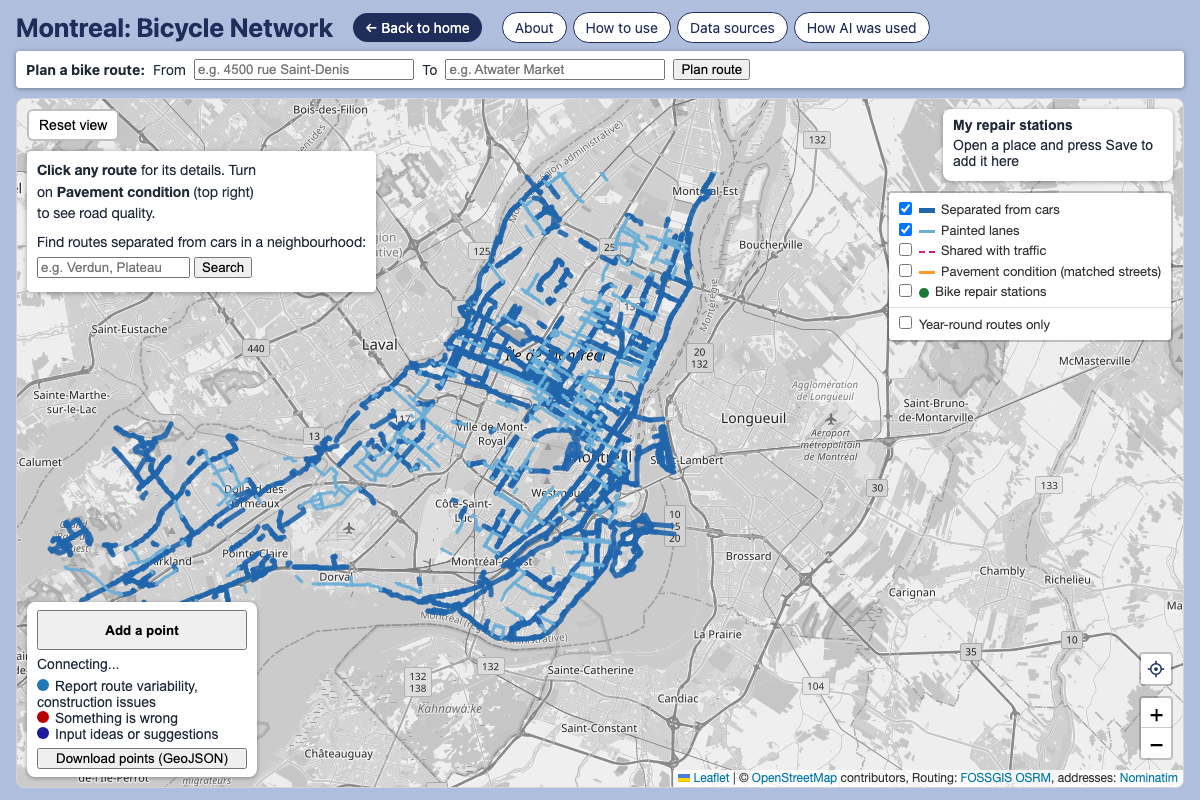
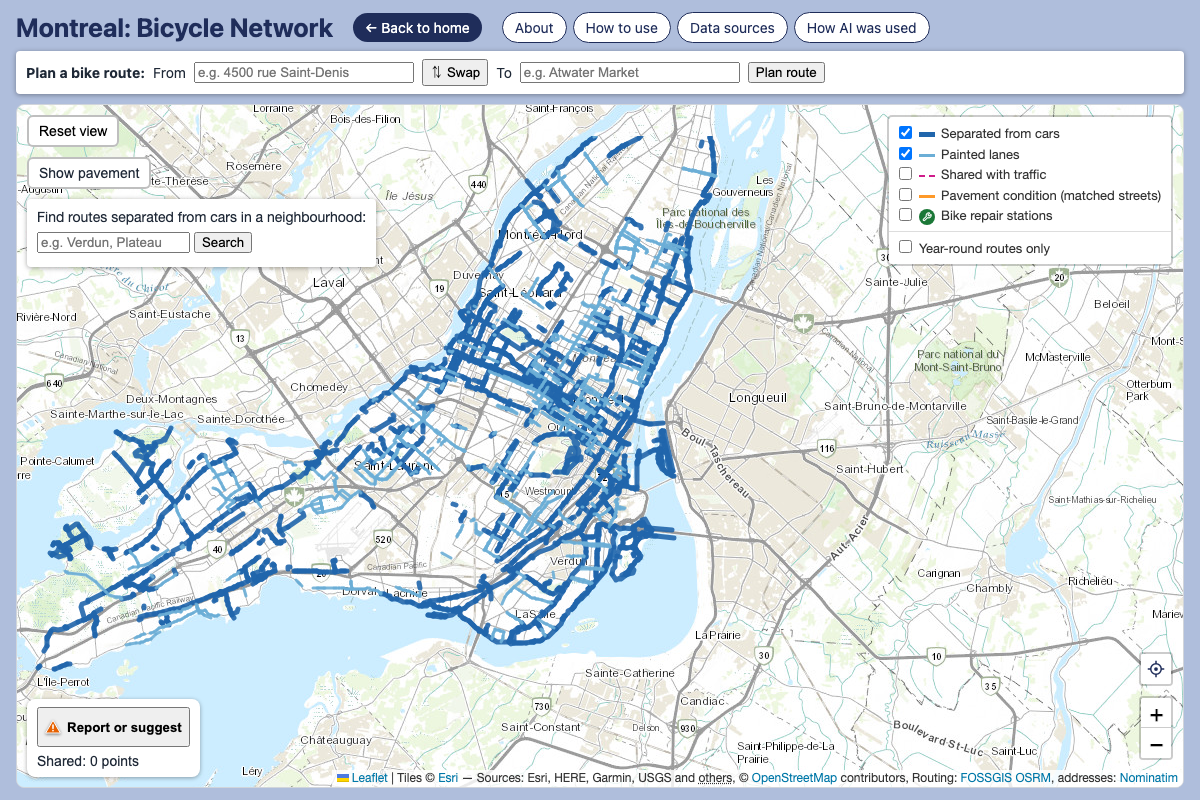
3.4 repair stations when saved, 3.5 update basemap

diff --git a/site/remember.js b/site/remember.js
@@ -100,15 +100,20 @@ function rememberMarks(map, layer, options) {
     return String(p[nameField] !== undefined ? p[nameField] : id);
   }
 
-  function drawPanel() {
+  function drawPanel(message) {
     panel.textContent = "";
+    // Favourites: hide the whole box until something is saved, so it does not cover the map for nothing
+    // (each place's popup has its own "Save" button). A message, e.g. "This browser would not save it",
+    // still shows the box. Saved places no longer in the data do not count.
+    const saved = marked.filter((id) => byId[id]);
+    panel.hidden = !progress && saved.length === 0 && !message;
     const h = document.createElement("strong");
     h.textContent = o.title || (progress ? "Progress" : "My places");
     const status = document.createElement("div");
     status.setAttribute("role", "status");
     status.style.margin = "4px 0";
-    status.textContent = progress ? (marked.length + " of " + total + " visited")
-                                  : (marked.length ? marked.length + " saved" : "Open a place and press Save to add it here");
+    status.textContent = message || (progress ? (marked.length + " of " + total + " visited")
+                                              : saved.length + " saved");
     const ul = document.createElement("ul");
     ul.style.cssText = "margin:0;padding-left:18px";
     for (const id of marked) {
@@ -131,11 +136,14 @@ function rememberMarks(map, layer, options) {
   function toggle(id) {
     const before = marked;
     marked = marked.includes(id) ? marked.filter((x) => x !== id) : marked.concat([id]);
-    if (!geog464Save(key, marked)) { marked = before; alertBox("This browser would not save it (private window?)"); }
+    if (!geog464Save(key, marked)) {
+      marked = before;
+      drawPanel("This browser would not save it (private window?)");   // shows the box even if nothing is saved
+      return;
+    }
     drawPanel();
   }
 
-  function alertBox(text) { panel.querySelector('[role="status"]').textContent = text; }
 
   // Add a button to each popup when it opens, so your own popup content stays as it is.
   layer.on("popupopen", (e) => {

diff --git a/site/app.js b/site/app.js
@@ -1,10 +1,20 @@
 const map = L.map('map', { preferCanvas: true }).setView([45.51, -73.57], 11);
 map.zoomControl.setPosition('bottomright');
 
-L.tileLayer('https://tile.openstreetmap.org/{z}/{x}/{y}.png', {
+// Basemap: Esri World Topographic. Light, natural colours (green parks, blue water, white and grey streets)
+// that do not clash with the lane, pavement and report colours, and it shows terrain.
+// Free with no account for non-commercial use; Esri asks for the credit below. Its full source list is long,
+// so (like Esri's own Leaflet plugin) the map shows a short credit and the full list appears on hover over "others".
+// The full credit is also in the Data sources tab.
+const ESRI_SOURCES = 'Sources: Esri, HERE, Garmin, Intermap, increment P Corp., GEBCO, USGS, FAO, NPS, NRCAN, GeoBase, IGN, ' +
+  'Kadaster NL, Ordnance Survey, Esri Japan, METI, Esri China (Hong Kong), (c) OpenStreetMap contributors, and the GIS User Community';
+L.tileLayer('https://server.arcgisonline.com/ArcGIS/rest/services/World_Topo_Map/MapServer/tile/{z}/{y}/{x}', {
   maxZoom: 19,
-  attribution: '&copy; <a href="https://www.openstreetmap.org/copyright">OpenStreetMap</a> contributors'
+  attribution: 'Tiles &copy; <a href="https://www.esri.com">Esri</a> &mdash; Sources: Esri, HERE, Garmin, USGS and ' +
+    '<abbr title="' + ESRI_SOURCES + '">others</abbr>'
 }).addTo(map);
+// The routes, addresses and repair stations come from OpenStreetMap data
+map.attributionControl.addAttribution('&copy; <a href="https://www.openstreetmap.org/copyright">OpenStreetMap</a> contributors');
 map.attributionControl.addAttribution(
   'Routing: <a href="https://routing.openstreetmap.de/about.html">FOSSGIS OSRM</a>, ' +
   'addresses: <a href="https://nominatim.org">Nominatim</a>'

diff --git a/site/map.html b/site/map.html
@@ -73,6 +73,12 @@
               if you choose "My location") are sent to these services to plan the route. "Locate me" uses your browser's location
               and does not send it anywhere.
             </li>
+            <li>
+              Basemap: <a href="https://www.arcgis.com/home/item.html?id=30e5fe3149c34df1ba922e6f5bbf808f">World Topographic Map</a>,
+              tiles &copy; Esri. Sources: Esri, HERE, Garmin, Intermap, increment P Corp., GEBCO, USGS, FAO, NPS, NRCAN, GeoBase,
+              IGN, Kadaster NL, Ordnance Survey, Esri Japan, METI, Esri China (Hong Kong), &copy; OpenStreetMap contributors,
+              and the GIS User Community.
+            </li>
           </ul>
         </section>
 

diff --git a/site/style.css b/site/style.css
@@ -149,9 +149,6 @@ h2 {
 a {
   color: var(--accent);
 }
-.leaflet-tile-pane {
-  filter: grayscale(100%);
-}
 #map {
   flex: 1;
   min-height: 420px;

diff --git a/README.md b/README.md
@@ -286,14 +286,14 @@ Review item 9 (aesthetic and minimalist design): five boxes covered the map (Res
 - **3.2 "Show pavement" button:** a small button under Reset view turns the pavement layer on and off ("Show pavement" / "Hide pavement") and stays in step with the layer box.
 - **3.3 "Report or suggest":** the Add a point panel starts folded as one button; pressing it opens the full panel. The status line ("Shared: 3 points", or an error) stays visible next to the button.
 - **3.4 "My repair stations" only once something is saved:** the box is hidden while nothing is saved.
-- **3.5 Lighter basemap:** CARTO Positron instead of greyed-out OpenStreetMap tiles, so the lanes and icons stand out (attribution: © OpenStreetMap contributors © CARTO).
+- **3.5 New basemap:** I first tried CARTO Positron, but it now needs an account, so I compared six free basemaps instead and chose **Esri World Topographic**. Its colours (green parks, blue water) make the bike lanes stand out, and it shows hills for the slope phase later.
 
 ### Tests (written before the code)
 | # | What I do | Expected | Result |
 | --- | --- | --- | --- |
-| 3.1 | Open the map | No "Click any route…" hint on the map; the neighbourhood search is one line with its button. | |
-| 3.2 | Press "Show pavement", then untick "Pavement condition" in the layer box | The pavement layer and its legend appear and the button says "Hide pavement"; after unticking, both are gone and the button says "Show pavement" again. | |
-| 3.3 | Open the map, press "Report or suggest", add a point, press it again | It starts folded with the status visible; it opens to the full panel; adding a point still works; it folds again. With the keyboard, Tab and Enter open and close it. | |
-| 3.4 | Open the map with nothing saved, save a repair station, then remove it | No "My repair stations" box at first; it appears after saving; it disappears again after removing the last station. | |
-| 3.5 | Compare the before and after screenshots | The map is lighter and the lanes stand out more; the attribution shows © CARTO. | |
+| 3.1 | Open the map | No "Click any route…" hint on the map; the neighbourhood search is one line with its button. | Passed|
+| 3.2 | Press "Show pavement", then untick "Pavement condition" in the layer box | The pavement layer and its legend appear and the button says "Hide pavement"; after unticking, both are gone and the button says "Show pavement" again. | Passed|
+| 3.3 | Open the map, press "Report or suggest", add a point, press it again | It starts folded with the status visible; it opens to the full panel; adding a point still works; it folds again. With the keyboard, Tab and Enter open and close it. |Passed |
+| 3.4 | Open the map with nothing saved, save a repair station, then remove it | No "My repair stations" box at first; it appears after saving; it disappears again after removing the last station. | Passed|
+| 3.5 | Compare the before and after screenshots | The lanes stand out more on the new basemap; the map credits Esri. | |
 | 3.6 | Count the boxes on the map | Before: five boxes. After: Reset view, Show pavement, a one-line search, the layer box and one "Report or suggest" button. | |
